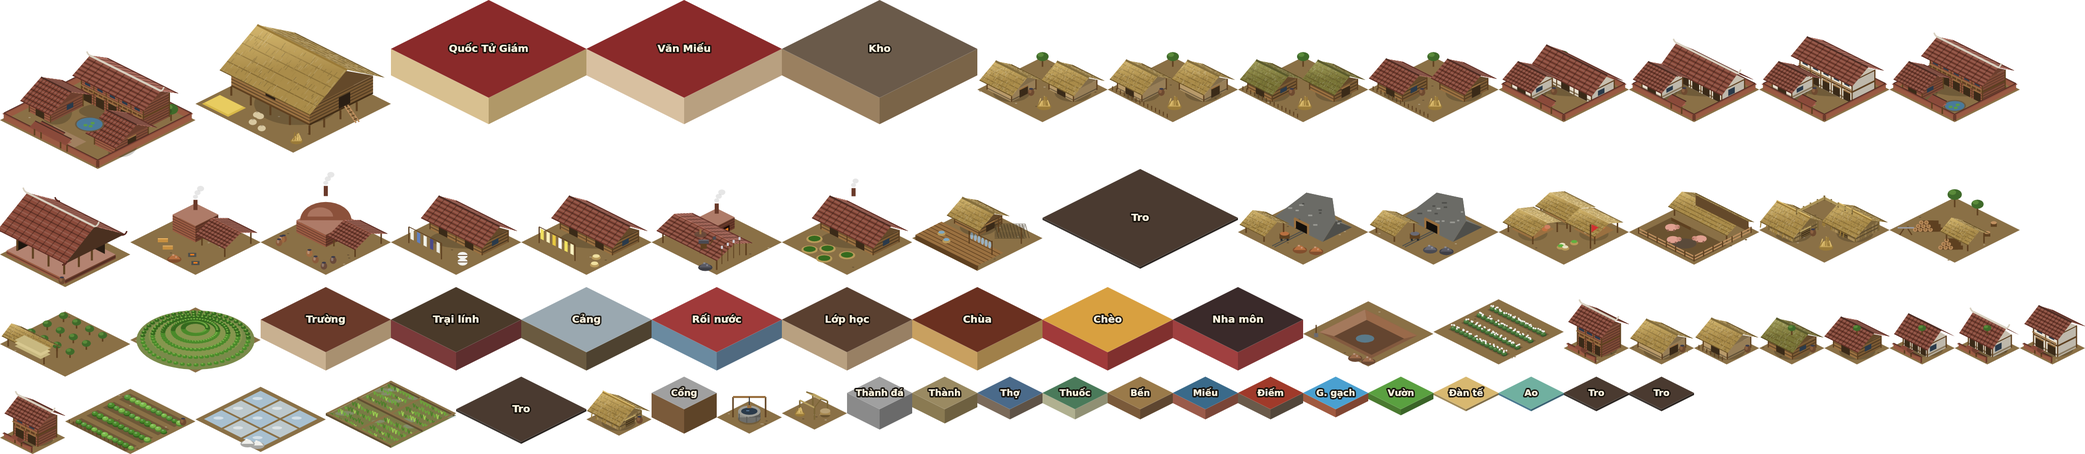
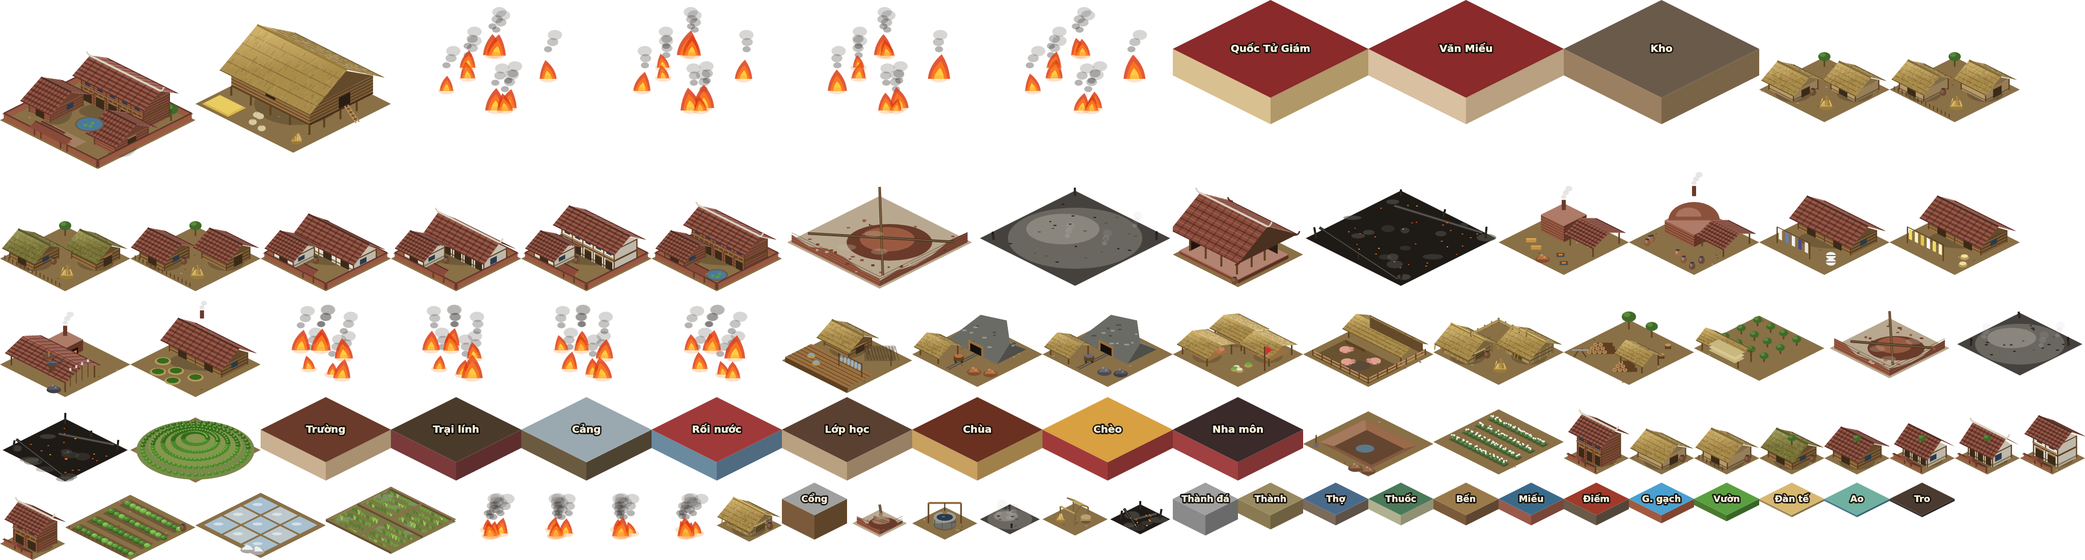
Cháy / sập / tro: đống tro ba giai đoạn (cháy có lửa hoạt ảnh, tro nguội, gạch vụn khi sập) + hình vẽ
- spawn.ts: RuinStage ở bit 4–5 của bLevel, collapseBuilding; risk.ts: sập thành gạch vụn collapseDays ngày, nửa sau cháy chuyển tro nguội, chỉ giai đoạn cháy mới lan
- chunks.ts: frame theo giai đoạn, lửa là sprite con đổi khung (animate); app.ts gọi mỗi frame
- scripts/art/ruins.ts: ruins / ash / rubble cỡ 1–3, fire 4 khung; pack-sprites đọc cỡ từ tên
- tests m3 (cháy chuyển tro, sập thành gạch vụn), sprites; README

Claude-Session: https://claude.ai/code/session_01P1LM4c1ZvJ6pKxVEFpyU72

diff --git a/scripts/art/ruins.ts b/scripts/art/ruins.ts
@@ -1,0 +1,122 @@
+// Đống tro ba giai đoạn (cỡ 1–3): `ruins_n` đang cháy (nền cháy đen, cột cháy dở, xà đổ, than hồng — lửa là frame riêng
+// `fire_n_k` 4 khung hoạt ảnh đè lên), `ash_n` tro nguội (gò tro xám, cột cháy, khói mỏng), `rubble_n` sập (mảng tường vỡ, xà nghiêng, gạch vụn).
+import { canvas, darken, hex, HALF_H, HALF_W, lighten, line, poly, polyUV, rng, scene, type Canvas, type Scene } from './lib';
+
+const CHAR = 0x1e1a16, CHAR_LIGHT = 0x3a3430, ASH = 0x6a6660, ASH_LIGHT = 0x8a867e, EMBER = 0xff6a20, EMBER_HOT = 0xffd040;
+const BRICK = 0x9a5a42, BRICK_DARK = 0x6a3a2a, WOOD_DARK = 0x5e4020, TILE = 0x8a4a3a, DUST = 0xb8a890;
+
+/** Nền ô cháy đen / tro, hơi nhỏ hơn móng. */
+function scorched(s: Scene, n: number, col: number, inset = 0.04): void {
+  polyUV(s, [[inset, inset, 0], [n - inset, inset, 0], [n - inset, n - inset, 0], [inset, n - inset, 0]], hex(col));
+}
+
+/** Cột cháy dở tại (u, v) cao h, hơi nghiêng. */
+function charredPost(s: Scene, u: number, v: number, h: number, lean: number): void {
+  line(s.g, s.p(u, v, 0), [s.p(u, v, h)[0] + lean, s.p(u, v, h)[1]], hex(CHAR), 2);
+  line(s.g, s.p(u, v, 0), [s.p(u, v, h * 0.6)[0] + lean * 0.6, s.p(u, v, h * 0.6)[1]], hex(CHAR_LIGHT), 0.8);
+}
+
+/** Xà gỗ nằm nghiêng từ a tới b (z0 → z1). */
+function beam(s: Scene, a: [number, number, number], b: [number, number, number], col: number): void {
+  line(s.g, s.p(...a), s.p(...b), hex(col), 2.5);
+  line(s.g, s.p(...a), s.p(...b), hex(lighten(col, 0.25)), 0.8);
+}
+
+export function ruins(n: number): Canvas {
+  const s = scene(n, 20);
+  const r = rng(500 + n);
+  scorched(s, n, CHAR);
+  // vệt tro xám loang
+  for (let i = 0; i < 5 * n; i++) { const [x, y] = s.p(0.1 + r() * (n - 0.2), 0.1 + r() * (n - 0.2)); s.g.fillStyle = `rgba(90,86,80,${0.3 + r() * 0.3})`; s.g.beginPath(); s.g.ellipse(x, y, 4 + r() * 6, 2 + r() * 2, 0, 0, Math.PI * 2); s.g.fill(); }
+  // cột cháy dở quanh móng, xà đổ
+  const cols: [number, number][] = n === 1 ? [[0.2, 0.2], [0.8, 0.2], [0.2, 0.8], [0.8, 0.8]] : [[0.2, 0.2], [n - 0.2, 0.2], [0.2, n - 0.2], [n - 0.2, n - 0.2], [n / 2, 0.2], [n / 2, n - 0.2]];
+  for (const [u, v] of cols) charredPost(s, u, v, 6 + r() * 8, (r() - 0.5) * 4);
+  beam(s, [0.2, n - 0.3, 9], [n - 0.3, n - 0.2, 0], CHAR);
+  beam(s, [n - 0.2, 0.3, 7], [0.4, 0.6, 0], CHAR_LIGHT);
+  // than hồng
+  for (let i = 0; i < 10 * n; i++) { const [x, y] = s.p(0.15 + r() * (n - 0.3), 0.15 + r() * (n - 0.3)); s.g.fillStyle = hex(r() < 0.3 ? EMBER_HOT : EMBER); s.g.fillRect(x, y, 1 + r(), 0.8); }
+  return s.c;
+}
+
+export function ash(n: number): Canvas {
+  const s = scene(n, 20);
+  const r = rng(600 + n);
+  scorched(s, n, darken(ASH, 0.35));
+  // gò tro
+  const [cx, cy] = s.p(n / 2, n / 2);
+  s.g.fillStyle = hex(ASH); s.g.beginPath(); s.g.ellipse(cx, cy, n * 22, n * 10, 0, 0, Math.PI * 2); s.g.fill();
+  s.g.fillStyle = hex(ASH_LIGHT); s.g.beginPath(); s.g.ellipse(cx - n * 4, cy - n * 3, n * 12, n * 5, 0, 0, Math.PI * 2); s.g.fill();
+  for (let i = 0; i < 8 * n; i++) { const [x, y] = s.p(0.2 + r() * (n - 0.4), 0.2 + r() * (n - 0.4)); s.g.fillStyle = hex(r() < 0.5 ? CHAR : darken(ASH, 0.2)); s.g.fillRect(x, y - r() * 3, 1.5 + r() * 2, 1); }
+  const cols: [number, number][] = n === 1 ? [[0.25, 0.25], [0.8, 0.75]] : [[0.2, 0.2], [n - 0.2, 0.3], [0.3, n - 0.2]];
+  for (const [u, v] of cols) charredPost(s, u, v, 4 + r() * 5, (r() - 0.5) * 3);
+  // khói mỏng
+  for (let i = 0; i < 3; i++) { const [x, y] = s.p(0.3 + r() * (n - 0.6), 0.3 + r() * (n - 0.6)); for (let k = 0; k < 3; k++) { s.g.fillStyle = `rgba(190,190,190,${0.22 - k * 0.05})`; s.g.beginPath(); s.g.ellipse(x + k * 1.5, y - 6 - k * 5, 2.5 + k, 2 + k * 0.8, 0, 0, Math.PI * 2); s.g.fill(); } }
+  return s.c;
+}
+
+export function rubble(n: number): Canvas {
+  const s = scene(n, 24);
+  const r = rng(700 + n);
+  scorched(s, n, DUST, 0.08);
+  // mảng tường vỡ còn đứng (vách trước và phải, răng cưa)
+  const h = 6 + n * 2;
+  const jag = (a: [number, number], b: [number, number], shade: number) => {
+    const pts: [number, number][] = [s.p(a[0], a[1], 0), s.p(b[0], b[1], 0)];
+    const steps = 5;
+    for (let i = steps; i >= 0; i--) { const t = i / steps; const u = a[0] + (b[0] - a[0]) * t, v = a[1] + (b[1] - a[1]) * t; pts.push(s.p(u, v, (r() * 0.8 + 0.2) * h)); }
+    poly(s.g, pts, hex(darken(BRICK, shade)));
+    for (let z = 2; z < h; z += 2.5) line(s.g, s.p(a[0], a[1], z), s.p(b[0], b[1], z), `rgba(60,30,20,0.45)`, 0.6);
+  };
+  jag([0.15, n - 0.15], [n - 0.15, n - 0.15], 0);
+  jag([n - 0.15, n - 0.15], [n - 0.15, 0.15], 0.2);
+  // đống gạch vụn, ngói vỡ, xà nghiêng
+  for (let i = 0; i < 14 * n; i++) { const [x, y] = s.p(0.2 + r() * (n - 0.4), 0.2 + r() * (n - 0.4)); const c = [BRICK, BRICK_DARK, TILE, DUST][Math.floor(r() * 4)]; s.g.fillStyle = hex(c); s.g.fillRect(x, y - r() * 4, 2 + r() * 2, 1.2 + r()); }
+  const [mx, my] = s.p(n * 0.55, n * 0.45);
+  s.g.fillStyle = hex(BRICK_DARK); s.g.beginPath(); s.g.ellipse(mx, my, n * 14, n * 6, 0, 0, Math.PI * 2); s.g.fill();
+  s.g.fillStyle = hex(BRICK); s.g.beginPath(); s.g.ellipse(mx - 2, my - 3, n * 9, n * 4, 0, 0, Math.PI * 2); s.g.fill();
+  beam(s, [0.3, 0.3, h + 4], [n - 0.4, n - 0.5, 1], WOOD_DARK);
+  beam(s, [n - 0.3, 0.4, 2], [0.5, n - 0.3, h], darken(WOOD_DARK, 0.2));
+  // bụi mù
+  for (let i = 0; i < 3; i++) { const [x, y] = s.p(0.3 + r() * (n - 0.6), 0.3 + r() * (n - 0.6)); s.g.fillStyle = 'rgba(200,185,160,0.3)'; s.g.beginPath(); s.g.ellipse(x, y - 5, 6 + r() * 4, 3, 0, 0, Math.PI * 2); s.g.fill(); }
+  return s.c;
+}
+
+/** Ngọn lửa: hình giọt nhiều lớp (đỏ → cam → vàng) tại (x, y) cao h, nghiêng lean. */
+function flame(g: import('./lib').Ctx, x: number, y: number, h: number, lean: number): void {
+  const layers: [number, string][] = [[1, 'rgba(220,60,20,0.85)'], [0.72, 'rgba(255,120,30,0.9)'], [0.45, 'rgba(255,210,70,0.95)']];
+  for (const [k, col] of layers) {
+    const w = h * 0.45 * k, hh = h * k;
+    g.fillStyle = col; g.beginPath();
+    g.moveTo(x - w, y); g.quadraticCurveTo(x - w * 0.9, y - hh * 0.55, x + lean * k, y - hh); g.quadraticCurveTo(x + w * 0.9, y - hh * 0.55, x + w, y); g.closePath(); g.fill();
+  }
+}
+
+export function fire(n: number, k: number): Canvas {
+  const W = n * 64, H = n * 32 + 36;
+  const c = canvas(W, H);
+  const g = c.getContext('2d');
+  const r = rng(800 + n * 10 + 0); // vị trí cố định theo cỡ, biến thiên theo khung
+  const p = (u: number, v: number): [number, number] => [W / 2 + (u - v) * HALF_W, H - n * 32 + (u + v) * HALF_H];
+  const spots: [number, number, number][] = [];
+  for (let i = 0; i < 3 + n * 2; i++) spots.push([0.2 + r() * (n - 0.4), 0.2 + r() * (n - 0.4), 10 + r() * 10 + n * 2]);
+  spots.sort((a, b) => a[0] + a[1] - (b[0] + b[1]));
+  const ph = (k * Math.PI) / 2;
+  // khói đen trước (phía sau lửa)
+  for (const [u, v, h] of spots) { const [x, y] = p(u, v); for (let j = 0; j < 3; j++) { g.fillStyle = `rgba(40,36,34,${0.35 - j * 0.08})`; const dx = Math.sin(ph + j) * 3 + j * 2, dy = -h - 4 - j * 7; g.beginPath(); g.ellipse(x + dx, y + dy, 4 + j * 1.5, 3 + j, 0, 0, Math.PI * 2); g.fill(); } }
+  // lửa: cao thấp thở theo khung, nghiêng đổi chiều
+  spots.forEach(([u, v, h], i) => { const [x, y] = p(u, v); const hh = h * (0.85 + 0.15 * Math.sin(ph + i)); flame(g, x, y, hh, Math.sin(ph + i * 1.3) * 3); });
+  // ánh hồng dưới chân lửa
+  for (const [u, v] of spots) { const [x, y] = p(u, v); g.fillStyle = 'rgba(255,140,40,0.25)'; g.beginPath(); g.ellipse(x, y, 8, 3.5, 0, 0, Math.PI * 2); g.fill(); }
+  return c;
+}
+
+export function ruinFrames(): Record<string, Canvas> {
+  const out: Record<string, Canvas> = {};
+  for (let n = 1; n <= 3; n++) {
+    out[`buildings/ruins_${n}.png`] = ruins(n);
+    out[`buildings/ash_${n}.png`] = ash(n);
+    out[`buildings/rubble_${n}.png`] = rubble(n);
+    for (let k = 0; k < 4; k++) out[`buildings/fire_${n}_${k}.png`] = fire(n, k);
+  }
+  return out;
+}

diff --git a/src/render/chunks.ts b/src/render/chunks.ts
@@ -15,7 +15,7 @@ export const ROAD_VARIANTS = 3;
 const CHUNKS_PER_SIDE = GRID_SIZE / CHUNK;
 
 /** Kích thước móng tại ô neo: đống tro ghi kích thước vào bLevel. */
-const sizeOf = (t: number, level: number): number => (t === BuildingType.Ruins ? Math.max(1, level) : t === BuildingType.House ? ((level >> 4) & 3) + 1 : BUILDING_DEFS[t]?.size ?? 1);
+const sizeOf = (t: number, level: number): number => (t === BuildingType.Ruins ? Math.max(1, level & 15) : t === BuildingType.House ? ((level >> 4) & 3) + 1 : BUILDING_DEFS[t]?.size ?? 1);
 /** bậc nhà nằm ở 4 bit thấp của bLevel (bit 4–5 là cỡ) */
 export const houseLevelOf = (bLevel: number): number => bLevel & 15;
 const keyOf = (t: BuildingType): string => BUILDING_DEFS[t].key;
@@ -23,7 +23,7 @@ const keyOf = (t: BuildingType): string => BUILDING_DEFS[t].key;
 /** Tên frame công trình trong sheet buildings. */
 export function buildingFrame(t: BuildingType, level: number): string {
   if (t === BuildingType.House) { const n = ((level >> 4) & 3) + 1; return `house${n > 1 ? n : ''}_l${Math.min(level & 15, 10)}`; }
-  if (t === BuildingType.Ruins) return `ruins_${Math.max(1, level)}`;
+  if (t === BuildingType.Ruins) { const stage = (level >> 4) & 3; return `${stage === 1 ? 'ash' : stage === 2 ? 'rubble' : 'ruins'}_${Math.max(1, level & 15)}`; } // đống tro: 4 bit thấp = cỡ, bit 4–5 = giai đoạn (cháy / tro / gạch vụn)
   return keyOf(t);
 }
 /** Tên frame đê / cống trong sheet ground (bLevel = cao + 16 nếu cống mở). */
@@ -50,6 +50,8 @@ export class ChunkLayer {
   private readonly dirty = new Set<number>();
   private readonly dirtyBuildings = new Set<number>();
   private readonly sprites = new Map<number, { node: Sprite | Graphics; label: Text | null; key: string }>();
+  /** lửa trên đống tro đang cháy: sprite con đổi khung theo thời gian */
+  private readonly fires = new Map<number, { sp: Sprite; n: number }>();
   private terrain: Uint16Array = new Uint16Array(GRID_SIZE * GRID_SIZE);
   private elevation: Uint8Array = new Uint8Array(GRID_SIZE * GRID_SIZE);
   private bType: Uint8Array = new Uint8Array(GRID_SIZE * GRID_SIZE);
@@ -196,6 +198,13 @@ export class ChunkLayer {
 
   private ground(key: string): Texture | null { return frameOf(this.sheets.ground, key); }
 
+  /** Hoạt ảnh lửa (4 khung, ~6 khung/giây). Gọi mỗi frame với thời gian ms. */
+  animate(ms: number): void {
+    if (this.fires.size === 0) return;
+    const k = Math.floor(ms / 160) % 4;
+    for (const f of this.fires.values()) { const t = frameOf(this.sheets.buildings, `fire_${f.n}_${k}`); if (t && f.sp.texture !== t) f.sp.texture = t; }
+  }
+
   /** Frame đường đất theo kết nối 4 phía (bit0 −y, bit1 +x, bit2 +y, bit3 −x) và biến thể băm theo ô; null nếu sheet chưa có. */
   private roadFrame(x: number, y: number): string | null {
     const road = (xx: number, yy: number): boolean => xx >= 0 && yy >= 0 && xx < GRID_SIZE && yy < GRID_SIZE && (this.terrain[yy * GRID_SIZE + xx] & T_ROAD) !== 0;
@@ -275,7 +284,7 @@ export class ChunkLayer {
     const cur = this.sprites.get(o);
     const bt = this.bType[o] as BuildingType;
     if (!bt || isDike(bt)) {
-      if (cur) { cur.node.destroy(); cur.label?.destroy(); this.sprites.delete(o); }
+      if (cur) { cur.node.destroy(); cur.label?.destroy(); this.sprites.delete(o); this.fires.delete(o); }
       const mk = this.markers.get(o);
       if (mk) { mk.destroy({ children: true }); this.markers.delete(o); }
       return;
@@ -284,7 +293,7 @@ export class ChunkLayer {
     const key = buildingFrame(bt, level);
     const wantLabel = this.showNames && !isPlaceholder(this.sheets.buildings, key);
     if (cur && cur.key === key && (cur.label !== null) === wantLabel) return;
-    if (cur) { cur.node.destroy(); cur.label?.destroy(); }
+    if (cur) { cur.node.destroy(); cur.label?.destroy(); this.fires.delete(o); }
     const ax = o % GRID_SIZE, ay = (o / GRID_SIZE) | 0;
     const { wx, wy } = tileToWorld(ax, ay);
     const px = wx, py = wy + TILE_H; // góc dưới hình thoi ô neo
@@ -295,6 +304,10 @@ export class ChunkLayer {
       const sp = new Sprite(tex);
       sp.anchor.set(0.5, 1);
       node = sp;
+      if (key.startsWith('ruins_')) { // đang cháy: lửa hoạt ảnh đè lên (frame fire_<n>_<k>)
+        const ft = frameOf(this.sheets.buildings, `fire_${n}_0`);
+        if (ft) { const fire = new Sprite(ft); fire.anchor.set(0.5, 1); sp.addChild(fire); this.fires.set(o, { sp: fire, n }); }
+      }
     } else {
       const g = new Graphics();
       drawBlock(g, n, typeHeight(bt, n, level), blockColors(bt, level));

diff --git a/src/sim/buildings/spawn.ts b/src/sim/buildings/spawn.ts
@@ -151,8 +151,16 @@ export function removeBuilding(s: GameState, b: Building): void {
   b.store.fill(0);
 }
 
-/** Công trình bốc cháy: thành đống tro cùng kích thước, dân và hàng mất hết. */
-export function burnBuilding(s: GameState, b: Building, days: number): void {
+/** Giai đoạn đống tro (ghi ở bit 4–5 của bLevel, kích thước ở 4 bit thấp): 0 đang cháy, 1 tro nguội, 2 gạch vụn (sập). */
+export const enum RuinStage { Burning = 0, Ash = 1, Rubble = 2 }
+export const ruinStage = (bLevel: number): RuinStage => ((bLevel >> 4) & 3) as RuinStage;
+export function setRuinStage(s: GameState, b: Building, stage: RuinStage): void {
+  const a = anchorOffset(b.x, b.y, b.size);
+  s.grid.bLevel[a] = b.size | (stage << 4);
+  s.dirty.add(a);
+}
+
+function toRuins(s: GameState, b: Building, days: number, stage: RuinStage): void {
   releaseFigures(s, b);
   b.population = 0;
   b.level = 0;
@@ -162,8 +170,12 @@ export function burnBuilding(s: GameState, b: Building, days: number): void {
   b.fireRisk = 0;
   b.damageRisk = 0;
   setBuildingType(s, b, BuildingType.Ruins);
-  s.grid.bLevel[anchorOffset(b.x, b.y, b.size)] = b.size; // đống tro: render đọc kích thước từ bLevel
+  setRuinStage(s, b, stage); // render đọc kích thước và giai đoạn từ bLevel
 }
+/** Công trình bốc cháy: thành đống tro cùng kích thước, dân và hàng mất hết; cháy `days` ngày rồi dọn. */
+export const burnBuilding = (s: GameState, b: Building, days: number): void => toRuins(s, b, days, RuinStage.Burning);
+/** Công trình sập: thành đống gạch vụn `days` ngày rồi dọn (không cháy lan). */
+export const collapseBuilding = (s: GameState, b: Building, days: number): void => toRuins(s, b, days, RuinStage.Rubble);
 
 /** Phá ô (x, y): đường thì xóa đường; công trình thì xóa cả công trình. */
 export function raze(s: GameState, x: number, y: number): boolean {

diff --git a/tests/m3.test.ts b/tests/m3.test.ts
@@ -1,5 +1,6 @@
 // Kiểm tra từng cơ chế M3 trên bản đồ phẳng nhỏ.
 import { describe, expect, it } from 'vitest';
+import { ruinStage, RuinStage } from '../src/sim/buildings/spawn';
 import { applyCommand, createSim, tick } from '../src/sim';
 import { BuildingType, LaborCat, Resource, StorePolicy, TICKS_PER_DAY, type GameState } from '../src/sim/state';
 import { BUILDING_DEFS, BUILDING_KEYS, HOUSE_LEVELS, UNITS_PER_LOAD } from '../src/sim/buildings/defs';
@@ -180,8 +181,27 @@ describe('cháy và sập', () => {
     updateRisks(s);
     expect(k.type).toBe(BuildingType.Ruins);
     expect(s.events.at(-1)).toContain('Cháy');
-    for (let i = 0; i < 20; i++) updateRisks(s);
+    const a = gridOffset(k.x + k.size - 1, k.y + k.size - 1);
+    expect(ruinStage(s.grid.bLevel[a])).toBe(RuinStage.Burning);
+    expect(s.grid.bLevel[a] & 15).toBe(2); // cỡ móng ở 4 bit thấp
+    for (let i = 0; i < 6; i++) updateRisks(s);
+    expect(ruinStage(s.grid.bLevel[a])).toBe(RuinStage.Ash); // nửa sau: tro nguội, hết lửa
+    for (let i = 0; i < 14; i++) updateRisks(s);
     expect(k.type).toBe(BuildingType.None);
+  });
+  it('sập thành đống gạch vụn vài ngày rồi dọn, không cháy lan', () => {
+    const s = createSim(1, { flat: true });
+    const k = build(s, 'kiln', 20, 20);
+    const h = build(s, 'house', 22, 20); h.level = 3; h.population = 5;
+    k.damageRisk = 201;
+    updateRisks(s);
+    expect(k.type).toBe(BuildingType.Ruins);
+    expect(s.events.at(-1)).toContain('Sập');
+    const a = gridOffset(k.x + k.size - 1, k.y + k.size - 1);
+    expect(ruinStage(s.grid.bLevel[a])).toBe(RuinStage.Rubble);
+    for (let i = 0; i < economy.risk.collapseDays; i++) updateRisks(s);
+    expect(k.type).toBe(BuildingType.None);
+    expect(h.fireRisk).toBe(0);
   });
   it('tuần đinh đi qua đặt fire_risk về 0', () => {
     const s = createSim(1, { flat: true });

diff --git a/src/sim/city/risk.ts b/src/sim/city/risk.ts
@@ -5,7 +5,7 @@ import { BuildingType, type Building, type GameState } from '../state';
 import { logEvent } from '../log';
 import { gridOffset, inBounds } from '../map/grid';
 import { BUILDING_DEFS, economy, HOUSE_LEVELS } from '../buildings/defs';
-import { burnBuilding, removeBuilding } from '../buildings/spawn';
+import { burnBuilding, collapseBuilding, removeBuilding, ruinStage, RuinStage, setRuinStage } from '../buildings/spawn';
 import { nextInt } from '../rng';
 
 const R = economy.risk;
@@ -30,13 +30,15 @@ export function updateRisks(s: GameState): void {
       burnBuilding(s, b, R.burnDays);
     } else if (b.damageRisk > R.collapseThreshold) {
       logEvent(s, `Sập: ${label(b)}`, gridOffset(b.x, b.y));
-      removeBuilding(s, b);
+      collapseBuilding(s, b, R.collapseDays);
     }
   }
 }
 
 function updateRuins(s: GameState, b: Building): void {
-  if (nextInt(s.rng, 16) < R.spreadChancePer16) {
+  const stage = ruinStage(s.grid.bLevel[gridOffset(b.x + b.size - 1, b.y + b.size - 1)]);
+  if (stage === RuinStage.Burning && b.burnDays <= R.burnDays / 2) setRuinStage(s, b, RuinStage.Ash); // nửa sau: lửa tắt, còn tro
+  if (stage === RuinStage.Burning && nextInt(s.rng, 16) < R.spreadChancePer16) {
     // lan sang một ô kề ngẫu nhiên
     const side = nextInt(s.rng, 4);
     const k = nextInt(s.rng, b.size);

diff --git a/tests/sprites.test.ts b/tests/sprites.test.ts
@@ -37,7 +37,11 @@ describe('spritesheet', () => {
       expect(f, `nhà bậc ${l}`).toBeDefined();
       expect([f.w, f.footprint, f.anchor]).toEqual([64 * SC, 1, [0.5, 1]]);
     }
-    for (let n = 1; n <= 3; n++) expect(buildings.frames[buildingFrame(BuildingType.Ruins, n)]?.w).toBe(n * 64 * SC);
+    for (let n = 1; n <= 3; n++) {
+      expect(buildings.frames[buildingFrame(BuildingType.Ruins, n)]?.w).toBe(n * 64 * SC);
+      for (const [stage, name] of [[1, 'ash'], [2, 'rubble']] as [number, string][]) expect(buildingFrame(BuildingType.Ruins, n | (stage << 4))).toBe(`${name}_${n}`); // giai đoạn ở bit 4–5
+      for (const key of [`ash_${n}`, `rubble_${n}`, `fire_${n}_0`, `fire_${n}_3`]) expect(buildings.frames[key]?.footprint, key).toBe(n);
+    }
   });
   it('đất nền: cỏ theo cao độ, bãi bồi, nước, đường, ngập, đất trũng, đê 0–4 (có/không đường), cống đóng/mở', () => {
     for (const k of ['grass0', 'grass1', 'grass2', 'grass3', 'grass4', 'floodplain', 'water', 'road', 'floor', 'sunken', 'flooded', 'overlay_unprotected', 'overlay_protected', 'tree']) expect(ground.frames[k], k).toBeDefined();

diff --git a/scripts/gen-art.ts b/scripts/gen-art.ts
@@ -9,13 +9,14 @@ import { roadFrames } from './art/road';
 import { buildingFrames } from './art/buildings';
 import { houseLevelFrames } from './art/houses';
 import { productionFrames } from './art/production';
+import { ruinFrames } from './art/ruins';
 import { RES_COLOR } from '../src/render/palette';
 
 const ROOT = join(import.meta.dirname, '..');
 const ASSETS = join(ROOT, 'assets');
 
 const resources = JSON.parse(readFileSync(join(ROOT, 'src/data/resources.json'), 'utf8')) as { list: { key: string }[] };
-const frames = { ...houseFrames(), ...houseLevelFrames(), ...buildingFrames(), ...productionFrames(), ...roadFrames(), ...figureFrames(resources.list.map((r, i) => ({ key: r.key, color: RES_COLOR[i] ?? 0xffffff })).filter((_, i) => i > 0)) };
+const frames = { ...houseFrames(), ...houseLevelFrames(), ...buildingFrames(), ...productionFrames(), ...ruinFrames(), ...roadFrames(), ...figureFrames(resources.list.map((r, i) => ({ key: r.key, color: RES_COLOR[i] ?? 0xffffff })).filter((_, i) => i > 0)) };
 const files: string[] = [];
 for (const [rel, canvas] of Object.entries(frames)) {
   const file = join(ASSETS, rel);

diff --git a/scripts/pack-sprites.ts b/scripts/pack-sprites.ts
@@ -20,7 +20,7 @@ export interface Sheet { image: string; placeholder: boolean; /** điểm ảnh 
 function footprintOf(group: string, name: string): number {
   if (group === 'houses') { const m = /^house(\d)_/.exec(name); return m ? Number(m[1]) : 1; }
   if (group === 'buildings') {
-    const m = /^ruins_(\d)$/.exec(name);
+    const m = /^(?:ruins|ash|rubble|fire)_(\d)/.exec(name); // đống tro ba giai đoạn + lửa: cỡ ghi trong tên
     if (m) return Number(m[1]);
     return buildings[name]?.size ?? 1;
   }

diff --git a/src/render/app.ts b/src/render/app.ts
@@ -286,7 +286,7 @@ export async function createRenderApp(canvas: HTMLCanvasElement): Promise<Render
   }
 
   app.ticker.add(() => {
-    chunks.flush(); figures.update();
+    chunks.flush(); figures.update(); chunks.animate(performance.now());
     if (minimap.node.visible && ++miniTick % 15 === 0) minimap.update(chunks.tiles(), result.view().corners); // ~4 lần/giây
   });
 

diff --git a/README.md b/README.md
@@ -211,4 +211,5 @@ Giữ đúng thiết kế: Ân sủng −2/năm, chiếu chỉ trễ lần đầ
 - **Mật độ 2×** (`ART_SCALE` trong `scripts/art/lib.ts`): mọi PNG trong `assets/` (hình thật lẫn hình tạm) xuất ở gấp đôi điểm ảnh — một ô là 128×64 — nhưng mã vẽ vẫn theo tọa độ 1× (canvas được `scale(2, 2)`, nét 0,5 px dùng được). `pack-sprites` ghi `scale: 2` vào sheet (frame theo điểm ảnh, sheet rộng tối đa 4096), `sheets.ts` đặt `source.resolution = scale`, chia frame về đơn vị 1× và lọc tuyến tính; bố cục render (ô 64×32, neo, vị trí kiện hàng) không đổi, zoom 2× thấy chi tiết thật. Test sprite nhân `scale` khi kiểm cỡ frame. Vân rơm, nan phên, sỏi đường vẽ mảnh và dày hơn cho hợp 2×.
 - **Nhà bậc 2–10** (`scripts/art/houses.ts`): một hàm `homestead()` tham số hóa (vách đất / ván / vôi / gạch, mái rơm / lá / ngói, cao tường, số gian, một hay hai tầng với lan can, hồi nhà, cửa sổ hông, bờ nóc trang trí). Bậc 2 nhà tranh vách đất, 3 nhà tranh có rào, 4 nhà gỗ lợp lá, 5 nhà gỗ lợp ngói, 6 nhà ba gian tường vôi có tường sân và cổng, 7 nhà năm gian bờ nóc trắng, 8 nhà phố hai tầng, 9 tư dinh gạch hai tầng, 10 phủ đệ. Bản gộp 2×2: bậc 2–5 hai nhà quanh sân (rơm, chum, rào, cây); bậc 6–9 nhà chính dài 3–5 gian + nhà ngang, tường gạch bao bốn phía, cổng có mái, cây, bậc 9 thêm ao. Phủ đệ 3×3: nhà chính hai tầng năm gian, hai nhà ngang, tường bao, cổng, hai cây, ao và sân gạch. Bộ phận dùng chung `yardWall` / `gate` / `tree` / `pond`.
 - **Công trình sản xuất** (`scripts/art/production.ts`, 17 cái đều 2×2): nguyên liệu — bến cá (sàn gỗ trên cọc, lều, giàn phơi cá, lưới, thúng cá), vườn rau (luống đất, cụm lá ba sắc, chum, rào), chuồng lợn (mái che rơm, rào ván, ba con lợn, vũng bùn, máng), bãi đất sét (hố đào bậc thang, vũng nước, đống sét, xẻng), ruộng bông (bụi xanh điểm bông trắng), đồi chè (gò đất, năm vòng chè đậm nhạt theo hướng sáng), nương dâu (hàng cây dâu, lán khay tằm xếp tầng), mỏ đồng / mỏ sắt (mỏm đá, cửa hầm khung gỗ, ray và xe goòng, đống quặng màu đồng / xám, lán), ruộng muối (lưới 3×3 ô nước lợ, đống muối trắng), trại gỗ (cây, gốc cụt, hai đống gỗ tròn, giá cưa, lán); xưởng — lò gốm (lò vòm gạch có cửa lửa và khói, lán ngói, chum gốm), khung cửi (nhà ván lợp ngói, dây phơi vải trắng / chàm, kiện bông), nhà sao chè (ống khói, nong phơi chè), xưởng dệt lụa (dây phơi lụa vàng, thúng kén), lò đúc đồng (lò gạch vuông, khuôn đúc, thỏi đồng, quặng), lò rèn (lò, mái che, đe trên gốc, búa, bễ, giá giáo, than). Bộ phận dùng chung: `openShed`, `furnace` (khối gạch, vòm, cửa lửa, ống khói, khói), `rockMound`, `orePile`, `logPile`, `bush`, `bed`, `dryingLine`.
+- **Cháy, sập, tro** (`scripts/art/ruins.ts`, sim `spawn.ts` / `risk.ts`): đống tro có ba giai đoạn ghi ở bit 4–5 của `bLevel` (4 bit thấp vẫn là cỡ móng) — `ruins_n` đang cháy (nền cháy đen, cột cháy dở, xà đổ, than hồng) với **lửa hoạt ảnh** `fire_n_0..3` (ngọn lửa ba lớp đỏ / cam / vàng thở và nghiêng theo khung, khói đen) là sprite con đè lên, render đổi khung ~6 lần/giây (`ChunkLayer.animate`); nửa sau thời gian cháy chuyển `ash_n` tro nguội (gò tro xám, cột cháy, khói mỏng, không lửa, không cháy lan); **sập** nay không biến mất ngay mà thành `rubble_n` đống gạch vụn (mảng tường vỡ răng cưa, xà nghiêng, gạch ngói vụn, bụi) `economy.json → risk.collapseDays` ngày rồi dọn, không cháy lan (`collapseBuilding`). Bản lưu cũ: tro không có bit giai đoạn → coi là đang cháy.
 
